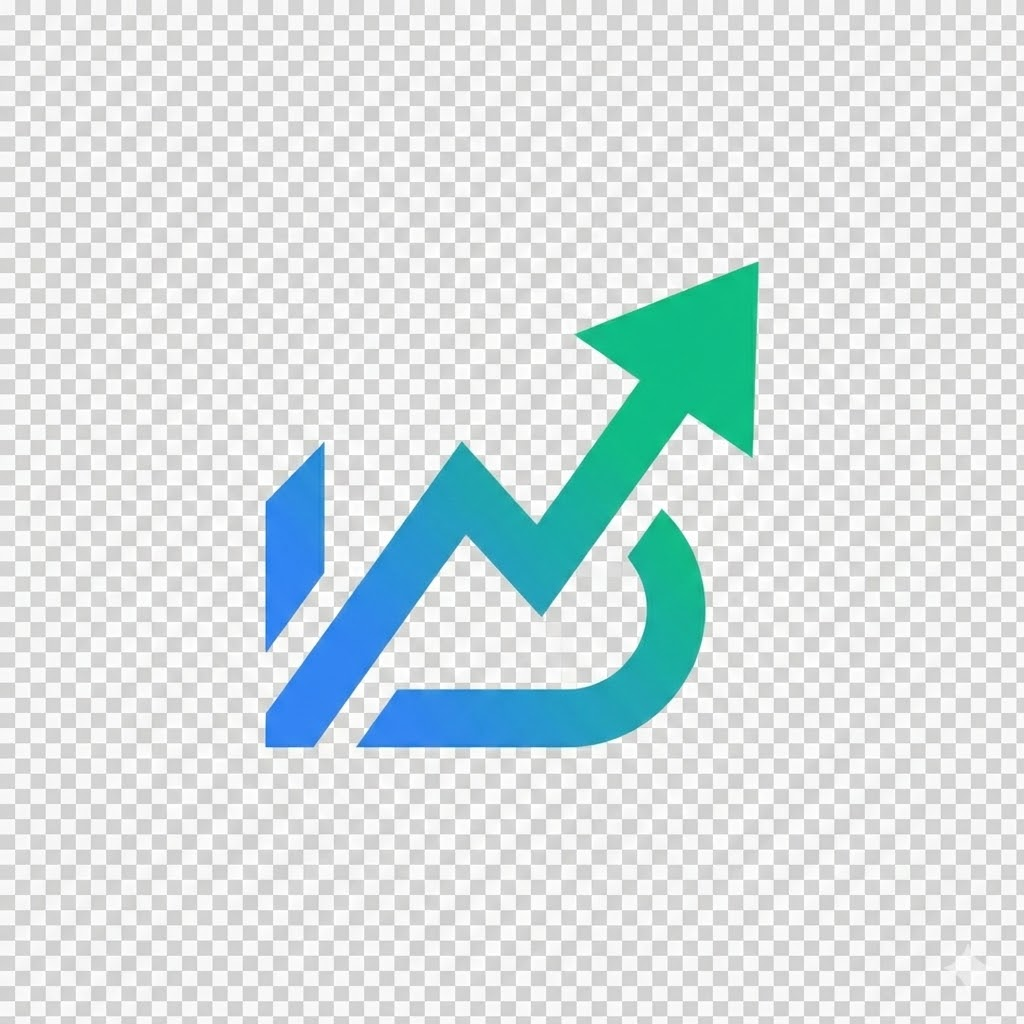
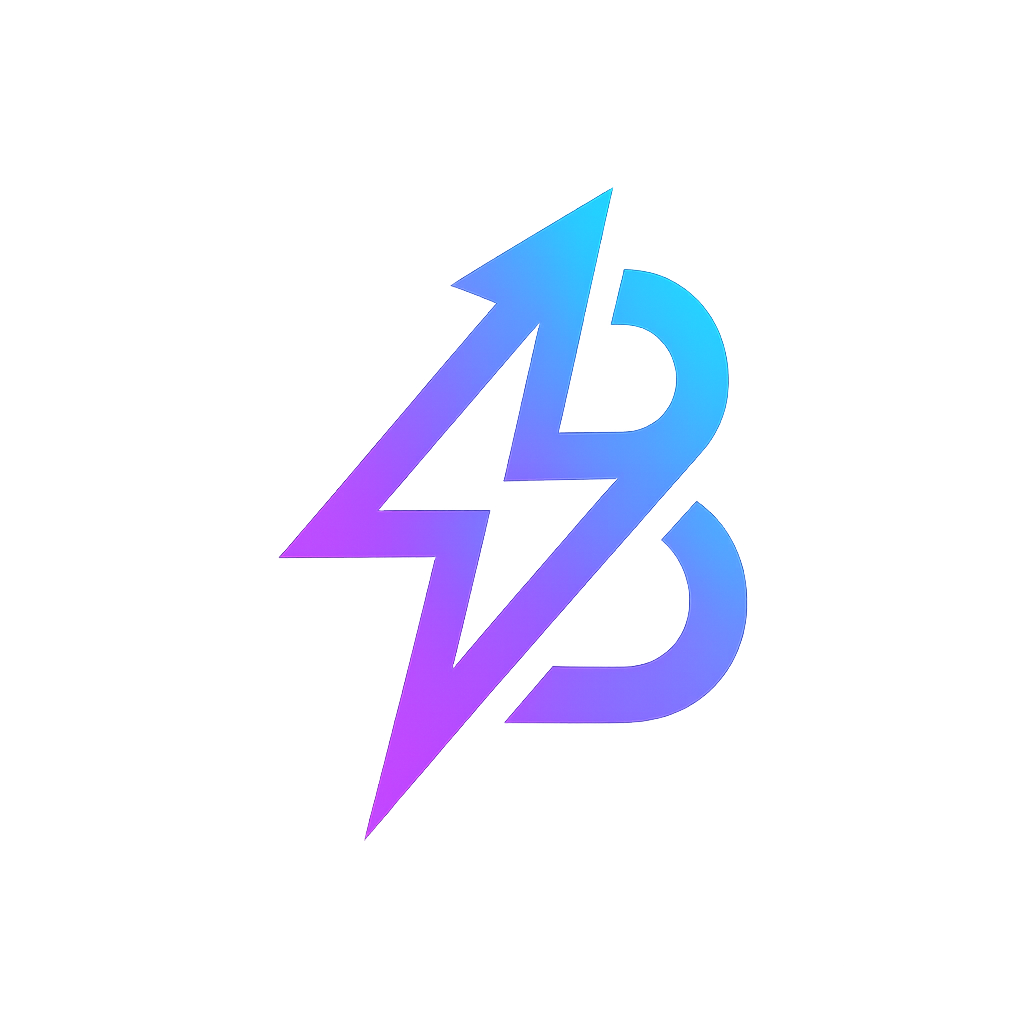
Új ikon az oldalnak, fejlesztett landing page

diff --git a/frontend/app/page.js b/frontend/app/page.js
@@ -650,33 +650,112 @@ export default function Home() {
 
   if (view === "landing") {
     return (
-      <div className="min-h-screen bg-gray-50 flex flex-col font-sans overflow-x-hidden">
-        <header className="w-full p-6 flex justify-between items-center bg-white shadow-sm border-b border-gray-100 z-10">
-          <button onClick={() => setView("landing")} className="text-2xl font-extrabold text-transparent bg-clip-text bg-gradient-to-r from-blue-600 to-purple-600 tracking-tight hover:opacity-80 transition-opacity text-left">
-            Boosted
+      // FRISSÍTVE: 'relative' osztály hozzáadva a háttér elemek miatt
+      <div className="min-h-screen bg-slate-50 flex flex-col font-sans overflow-x-hidden relative">
+        
+        {/* ================================================== */}
+        {/* ÚJ: FIX HÁTTÉR GRADIENS FOLTOK (A MENŐ HÁTTÉR) */}
+        {/* ================================================== */}
+        <div className="fixed top-0 left-0 w-[500px] h-[500px] bg-purple-200/30 rounded-full blur-[120px] pointer-events-none z-0"></div>
+        <div className="fixed bottom-0 right-0 w-[500px] h-[500px] bg-emerald-100/30 rounded-full blur-[120px] pointer-events-none z-0"></div>
+        
+        <header className="w-full p-6 flex justify-between items-center bg-white shadow-sm border-b border-slate-100 z-50 sticky top-0 transition-colors duration-500">
+          {/* ÚJ: LOGO ÉS SZÖVEG EGYÜTT */}
+          <div className="flex items-center gap-3">
+            <button onClick={() => setView("landing")} className="text-3xl font-extrabold text-transparent bg-clip-text bg-gradient-to-r from-blue-600 to-purple-600 tracking-tight hover:opacity-80 transition-opacity text-left">
+              Boosted
+            </button>
+          </div>
+          <button onClick={() => setView("login")} className="px-6 py-2 bg-slate-100 text-slate-800 font-bold rounded-lg hover:bg-slate-200 transition text-sm">
+            Bejelentkezés
           </button>
-          <button onClick={() => setView("login")} className="px-6 py-2 bg-gray-100 text-gray-800 font-bold rounded-lg hover:bg-gray-200 transition text-sm">Bejelentkezés</button>
         </header>
 
-        <main className="flex-1 max-w-6xl mx-auto px-4 py-16 md:py-24 flex flex-col items-center text-center">
-          <h1 className="text-5xl md:text-7xl font-extrabold text-gray-900 mb-8 tracking-tighter leading-tight">Emeld új szintre a <br /><span className="text-transparent bg-clip-text bg-linear-to-r from-blue-600 to-purple-600">közös munkát</span></h1>
-          <p className="text-xl text-gray-600 mb-16 max-w-2xl leading-relaxed">A Boosted egy adatközpontú platform, amely összeköti a szakértőket és klienseiket. Kövesd az alvást, a stresszt és az edzéseket egyetlen felületen.</p>
-
-          <div className="grid grid-cols-1 md:grid-cols-2 gap-8 w-full max-w-4xl text-left">
-            <div className="bg-white p-8 rounded-2xl shadow-md border border-gray-100 flex flex-col">
-              <div className="text-4xl mb-4">🏃♂️</div>
-              <h2 className="text-2xl font-bold text-gray-900 mb-3">Klienseknek</h2>
-              <p className="text-gray-600 mb-6 flex-1">Naplózd egyszerűen a napi biometrikus adataidat.</p>
-              <div className="p-4 bg-orange-50 text-orange-800 rounded-lg text-sm border border-orange-100 font-medium">⚠️ Csatlakozni kizárólag a szakértődtől kapott meghívóval tudsz!</div>
-            </div>
-
-            <div className="bg-gradient-to-br from-blue-50 to-indigo-50 p-8 rounded-2xl shadow-md border border-blue-100 flex flex-col">
-              <div className="text-4xl mb-4">📊</div>
-              <h2 className="text-2xl font-bold text-blue-900 mb-3">Szakértőknek</h2>
-              <p className="text-blue-800 mb-6 flex-1 opacity-90">Lásd át az összes kliensed állapotát egyetlen Dashboardon.</p>
-              <button onClick={() => setView("register")} className="w-full py-4 bg-blue-600 text-white font-bold rounded-xl hover:bg-blue-700 transition shadow-lg hover:shadow-blue-200">Regisztráció Szakértőként</button>
-            </div>
+        {/* FRISSÍTVE: justify-center helyettitems-center, és relative z-10 */}
+        <main className="flex-1 flex flex-col justify-center items-center pt-8 pb-12 md:pt-12 md:pb-16 relative z-10">
+          
+          {/* ================================================== */}
+          {/* ÚJ: ÓRIÁSI VILLÁM VÍZJEL A HÁTTÉRBEN */}
+          {/* ================================================== */}
+          <div className="absolute inset-0 flex items-center justify-center z-0 opacity-[0.03] pointer-events-none overflow-hidden">
+            <svg className="w-[800px] h-[800px] text-purple-900" fill="currentColor" viewBox="0 0 24 24">
+              <path d="M3.75 13.5l10.5-11.25L12 10.5h8.25L9.75 21.75 12 13.5H3.75z" />
+            </svg>
           </div>
+          
+          <section className="max-w-6xl mx-auto px-6 flex flex-col items-center text-center w-full relative z-10">
+            <h1 className="text-4xl md:text-6xl lg:text-7xl font-extrabold text-slate-950 mb-5 tracking-tighter leading-[1.1]">
+              Emeld új szintre a <br />
+              <span className="text-transparent bg-clip-text bg-gradient-to-r from-blue-600 to-purple-600">
+                közös munkát
+              </span>
+            </h1>
+            <p className="text-lg md:text-xl text-slate-600 mb-10 md:mb-12 max-w-2xl leading-relaxed font-medium">
+              A Boosted egy adatközpontú platform, amely összeköti a szakértőket és klienseiket. Kövesd az alvást, a stresszt és az edzéseket egyetlen, modern felületen.
+            </p>
+          </section>
+
+          <section className="max-w-6xl mx-auto px-6 w-full relative z-10">
+            <div className="grid grid-cols-1 md:grid-cols-2 gap-6 md:gap-8 hover:[&>div]:z-20">
+              
+              {/* 1. KÁRTYA: EDZŐKNEK/SZAKÉRTŐKNEK */}
+              <div className="group bg-white rounded-3xl p-8 shadow-xl shadow-slate-200/50 border border-slate-100 flex flex-col hover:-translate-y-2 hover:shadow-2xl hover:shadow-purple-100 transition-all duration-300 relative overflow-hidden min-h-[380px] h-full z-10">
+                <div className="absolute -bottom-20 -right-20 w-80 h-80 bg-purple-100 rounded-full blur-[100px] opacity-0 group-hover:opacity-100 transition-opacity duration-500 pointer-events-none"></div>
+                
+                <div className="relative z-10 flex flex-col h-full">
+                  <div className="w-14 h-14 rounded-2xl bg-purple-100 border border-purple-200 flex items-center justify-center mb-6 shrink-0 shadow-sm transition-transform group-hover:scale-110">
+                    <svg className="w-7 h-7 text-purple-600" fill="none" stroke="currentColor" viewBox="0 0 24 24">
+                      <path strokeLinecap="round" strokeLinejoin="round" strokeWidth="2" d="M16 8v8m-4-5v5m-4-2v2m-2 4h12a2 2 0 002-2V6a2 2 0 00-2-2H6a2 2 0 00-2 2v12a2 2 0 002 2z"></path>
+                    </svg>
+                  </div>
+
+                  <span className="text-purple-600 text-xs font-bold uppercase tracking-widest mb-2">Edzői Megoldás</span>
+                  <h3 className="text-2xl md:text-3xl font-extrabold text-slate-900 mb-4 leading-tight tracking-tight">
+                    Skálázd a Praxist
+                  </h3>
+                  <p className="text-slate-600 text-base md:text-lg leading-relaxed mb-8 flex-1 font-medium">
+                    Kezelj korlátlan számú klienst, lásd át az állapotukat egyetlen Dashboardon, és optimalizáld a folyamataidat.
+                  </p>
+
+                  <button onClick={() => setView("register")} className="w-full mt-auto px-6 py-3.5 bg-purple-600 text-white font-bold rounded-xl hover:bg-purple-700 transition shadow-lg shadow-purple-200 text-center text-sm md:text-base active:scale-95">
+                    Regisztráció Szakértőként
+                  </button>
+                </div>
+              </div>
+
+              {/* 2. KÁRTYA: KLIENSEKNEK */}
+              <div className="group bg-white rounded-3xl p-8 shadow-xl shadow-slate-200/50 border border-slate-100 flex flex-col hover:-translate-y-2 hover:shadow-2xl hover:shadow-emerald-100 transition-all duration-300 relative overflow-hidden min-h-[380px] h-full z-10">
+                <div className="absolute -bottom-20 -right-20 w-80 h-80 bg-emerald-100 rounded-full blur-[100px] opacity-0 group-hover:opacity-100 transition-opacity duration-500 pointer-events-none"></div>
+
+                <div className="relative z-10 flex flex-col h-full">
+                  <div className="w-14 h-14 rounded-2xl bg-emerald-100 border border-emerald-200 flex items-center justify-center mb-6 shrink-0 shadow-sm transition-transform group-hover:scale-110">
+                    <svg className="w-7 h-7 text-emerald-600" fill="none" stroke="currentColor" viewBox="0 0 24 24">
+                      <path strokeLinecap="round" strokeLinejoin="round" strokeWidth="2" d="M13 10V3L4 14h7v7l9-11h-7z"></path>
+                    </svg>
+                  </div>
+
+                  <span className="text-emerald-600 text-xs font-bold uppercase tracking-widest mb-2">Kliens Platform</span>
+                  <h3 className="text-2xl md:text-3xl font-extrabold text-slate-900 mb-4 leading-tight tracking-tight">
+                    Érd el a Céljaid
+                  </h3>
+                  <p className="text-slate-600 text-base md:text-lg leading-relaxed mb-8 flex-1 font-medium">
+                    Naplózd egyszerűen a biometrikus adataidat, kövesd az edzéstervedet, és kapj visszajelzést a szakértődtől.
+                  </p>
+
+                  <div className="w-full mt-auto p-4 bg-emerald-50 text-emerald-900 rounded-xl text-sm border border-emerald-100 font-semibold flex items-start gap-3 shadow-inner group-hover:border-emerald-200 transition-colors">
+                    <svg className="w-5 h-5 text-emerald-500 shrink-0 mt-0.5" fill="none" stroke="currentColor" viewBox="0 0 24 24">
+                      <path strokeLinecap="round" strokeLinejoin="round" strokeWidth="2" d="M12 9v2m0 4h.01m-6.938 4h13.856c1.54 0 2.502-1.667 1.732-3L13.732 4c-.77-1.333-2.694-1.333-3.464 0L3.34 16c-.77 1.333.192 3 1.732 3z"></path>
+                    </svg>
+                    <span className="text-xs md:text-sm leading-snug">
+                      <strong className="block mb-0.5 text-emerald-950">Meghívó szükséges</strong>
+                      Csatlakozni kizárólag egyedi meghívóval tudsz az edződtől.
+                    </span>
+                  </div>
+                </div>
+              </div>
+
+            </div>
+          </section>
         </main>
       </div>
     );
@@ -798,16 +877,17 @@ export default function Home() {
 
   if (view === "dashboard") {
     const isCoach = userRole === "COACH";
-    const isAiMode = currentTab === "ai" && !selectedClient; // ÚJ: Ellenőrizzük, hogy AI módban vagyunk-e
+    const isAiMode = currentTab === "ai" && !selectedClient;
     
-    const themeGradient = isCoach ? "from-blue-600 to-purple-600" : "from-emerald-500 to-teal-400";
-    const themeText = isCoach ? "text-blue-700" : "text-emerald-700";
-    const themeBg = isCoach ? "bg-blue-50" : "bg-emerald-50";
+    // KÉK HELYETT LILA TÉMA AZ EDZŐNEK
+    const themeGradient = isCoach ? "from-purple-600 to-indigo-600" : "from-emerald-500 to-teal-400";
+    const themeText = isCoach ? "text-purple-700" : "text-emerald-700";
+    const themeBg = isCoach ? "bg-purple-50" : "bg-emerald-50";
 
     return (
-      <div className={`min-h-screen font-sans relative transition-colors duration-500 ${isAiMode ? "bg-slate-950" : "bg-gray-50"}`}>
+      <div className={`min-h-screen font-sans relative transition-colors duration-500 ${isAiMode ? "bg-slate-950" : "bg-slate-50"}`}>
         
-        <header className={`shadow-sm border-b px-6 py-4 flex flex-col sm:flex-row justify-between items-center z-10 sticky top-0 transition-colors duration-500 ${isAiMode ? "bg-slate-950/80 backdrop-blur-lg border-purple-900/30" : "bg-white border-gray-200"}`}>
+        <header className={`shadow-sm border-b px-6 py-4 flex flex-col sm:flex-row justify-between items-center z-10 sticky top-0 transition-colors duration-500 ${isAiMode ? "bg-slate-950/80 backdrop-blur-lg border-purple-900/30" : "bg-white border-slate-200"}`}>
           <div className="flex items-center justify-between w-full sm:w-auto mb-4 sm:mb-0">
             
             <button 
@@ -1082,7 +1162,7 @@ export default function Home() {
                   </p>
                 </div>
                 {isCoach && (
-                  <button onClick={() => setIsModalOpen(true)} className="flex items-center px-6 py-3 bg-blue-600 text-white font-bold rounded-xl hover:bg-blue-700 transition shadow-md w-full sm:w-auto justify-center">
+                  <button onClick={() => setIsModalOpen(true)} className="flex items-center px-6 py-3 bg-purple-600 text-white font-bold rounded-xl hover:bg-purple-700 transition shadow-md w-full sm:w-auto justify-center">
                     <span className="text-xl mr-2">+</span> Új kliens meghívása
                   </button>
                 )}
@@ -1188,7 +1268,7 @@ export default function Home() {
                             placeholder="Keresés név vagy email alapján..." 
                             value={searchQuery}
                             onChange={(e) => setSearchQuery(e.target.value)}
-                            className="w-full pl-11 pr-4 py-2 border border-gray-200 rounded-xl focus:ring-2 focus:ring-blue-500 outline-none bg-white text-gray-900 font-sans text-base font-medium tracking-wide transition-all shadow-sm"
+                            className="w-full pl-11 pr-4 py-2 border border-slate-200 rounded-xl focus:ring-2 focus:ring-purple-500 outline-none bg-white text-slate-900 font-sans text-base font-medium tracking-wide transition-all shadow-sm"
                           />
                         </div>
                       </div>